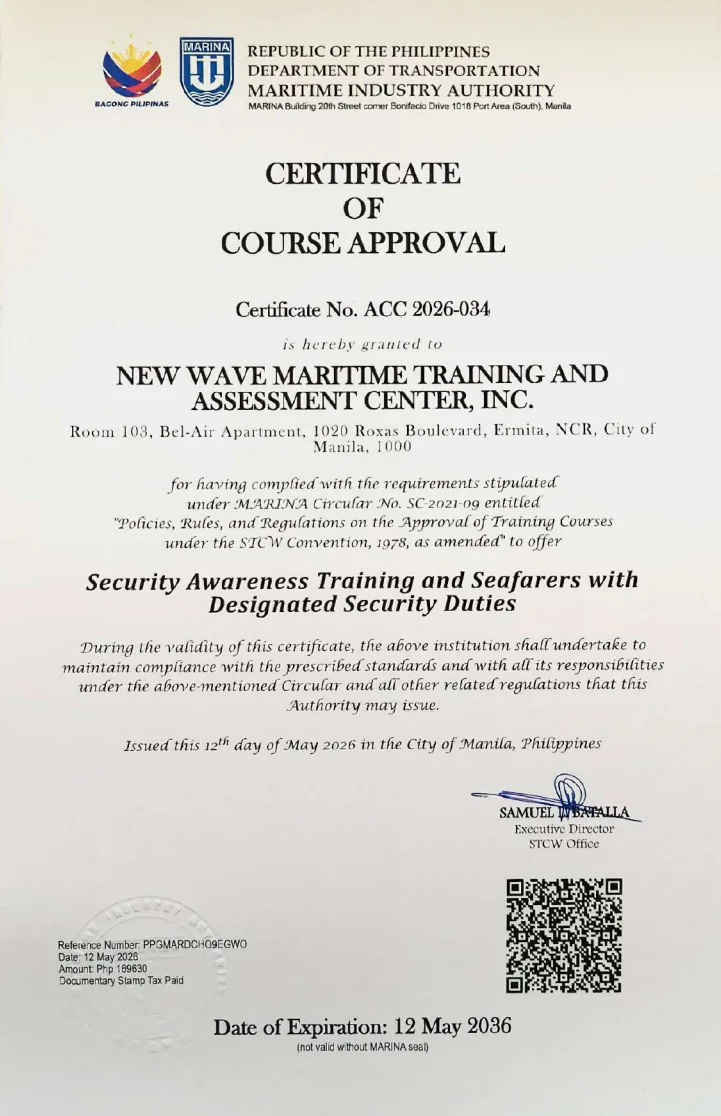
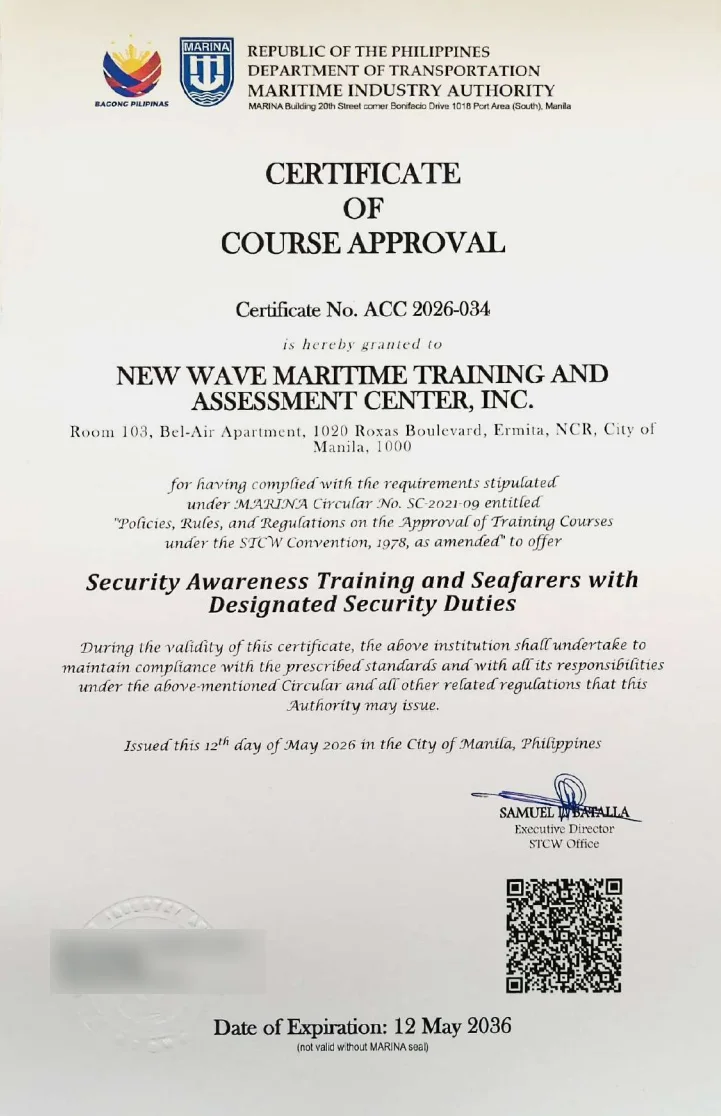
Editorial headline; blur the MARINA fee on published certificates and stop serving originals

Changed region(s): [[0.061, 0.8226, 0.3356, 0.8835]]

diff --git a/components/public-site.tsx b/components/public-site.tsx
@@ -43,9 +43,11 @@ const PAGE_PATH: Record<PublicPage, string> = {
  * issued documents. All five were issued 12 May 2026 under MARINA Circular
  * No. SC-2021-09 and run to 12 May 2036. Order matches the approved layout.
  *
- * The thumbnails under public/certificates/ are unmodified web derivatives;
- * the originals under public/certificates/originals/ are the files the user
- * supplied, byte for byte, and are what every link opens. */
+ * Published copies (public/certificates/full/*.png and the .webp thumbnails)
+ * have the lower-left payment block blurred at the owner's request: the amount
+ * paid to MARINA is commercial information. Certificate numbers, course titles,
+ * dates, the QR code and the seal are untouched. The unmodified originals are
+ * kept in the design skill's assets folder and are not served. */
 const HERO_CERTIFICATES = [
   { no: "ACC 2026-036", title: "Safety Training for Personnel Providing Direct Service to Passengers in Passengers Spaces", file: "acc-2026-036" },
   { no: "ACC 2026-034", title: "Security Awareness Training and Seafarers with Designated Security Duties", file: "acc-2026-034" },
@@ -270,7 +272,7 @@ function Home() {
           {HERO_CERTIFICATES.map((cert) => (
             <li key={cert.no} className="nw-cert">
               <a
-                href={`/certificates/originals/${cert.file}.png`}
+                href={`/certificates/full/${cert.file}.png`}
                 target="_blank"
                 rel="noopener"
                 aria-label={`View approval certificate ${cert.no}: ${cert.title} (opens the full image in a new tab)`}
@@ -469,7 +471,7 @@ function About() {
             <li key={cert.no}>
               <figure>
                 <a
-                  href={`/certificates/originals/${cert.file}.png`}
+                  href={`/certificates/full/${cert.file}.png`}
                   target="_blank"
                   rel="noopener"
                   aria-label={`View approval certificate ${cert.no}: ${cert.title} (opens the full image in a new tab)`}

diff --git a/app/globals.css b/app/globals.css
@@ -5970,19 +5970,23 @@ a[href^="mailto:"],
   color: var(--orange-text);
 }
 
+/* Editorial direction (owner, 7 Oct 2026): the serif carries the headline in
+   sentence case, replacing the mockup's heavy all-caps sans. Orange emphasis
+   stays; at this size brand orange clears the large-text contrast floor. */
 .nw-headline {
-  font-family: var(--font-ui), "Segoe UI", system-ui, sans-serif;
-  font-size: clamp(38px, 5.6vw, 82px);
-  line-height: 0.98;
-  font-weight: 800;
-  letter-spacing: -0.015em;
-  text-transform: uppercase;
+  font-family: var(--font-display), Georgia, "Times New Roman", serif;
+  font-size: clamp(40px, 5.4vw, 80px);
+  line-height: 1.02;
+  font-weight: 400;
+  letter-spacing: -0.018em;
+  text-transform: none;
   color: var(--blue-dark);
   margin: clamp(10px, 1.4vw, 18px) 0 0;
   text-wrap: balance;
 }
 .nw-headline em {
   font-style: normal;
+  font-weight: 600;
   color: var(--orange);
 }
 

diff --git a/public/certificates/README.md b/public/certificates/README.md
@@ -1,30 +1,34 @@
 # MARINA Certificates of Course Approval
 
 Source: the five files supplied in the `new-wave-claude-skill` assets folder.
+Those originals are **not served** by the site; they stay in that folder,
+unmodified, as the record copies.
 
-| Original (unmodified) | Web thumbnail | Certificate | Course |
+| Full-size (served) | Thumbnail | Certificate | Course |
 |------|------|-------------|--------|
-| `originals/acc-2026-034.png` | `acc-2026-034.webp` | ACC 2026-034 | Security Awareness Training and Seafarers with Designated Security Duties |
-| `originals/acc-2026-035.png` | `acc-2026-035.webp` | ACC 2026-035 | Ship Security Officers |
-| `originals/acc-2026-036.png` | `acc-2026-036.webp` | ACC 2026-036 | Safety Training for Personnel Providing Direct Service to Passengers in Passengers Spaces |
-| `originals/acc-2026-037.png` | `acc-2026-037.webp` | ACC 2026-037 | Passenger Ship Crowd Management Training |
-| `originals/acc-2026-038.png` | `acc-2026-038.webp` | ACC 2026-038 | Passenger Ship Crisis Management and Human Behaviour Training |
+| `full/acc-2026-034.png` | `acc-2026-034.webp` | ACC 2026-034 | Security Awareness Training and Seafarers with Designated Security Duties |
+| `full/acc-2026-035.png` | `acc-2026-035.webp` | ACC 2026-035 | Ship Security Officers |
+| `full/acc-2026-036.png` | `acc-2026-036.webp` | ACC 2026-036 | Safety Training for Personnel Providing Direct Service to Passengers in Passengers Spaces |
+| `full/acc-2026-037.png` | `acc-2026-037.webp` | ACC 2026-037 | Passenger Ship Crowd Management Training |
+| `full/acc-2026-038.png` | `acc-2026-038.webp` | ACC 2026-038 | Passenger Ship Crisis Management and Human Behaviour Training |
 
 All five were issued 12 May 2026 and expire 12 May 2036. Each states
 "not valid without MARINA seal"; the site does not claim independent
 verification.
 
-## Contents are unaltered
+## What is blurred, and why
 
-Per the implementation skill, these are published **unmodified**: no blur,
-crop, or edit to any number, date, QR code, seal or stamp. The `.webp` files
-are plain resized derivatives for the hero row; every link on the site opens
-the original PNG.
+On every served copy the lower-left block — reference number, date,
+**the amount paid to MARINA**, and the stamp-tax line — is blurred. The owner
+asked for this on 7 October 2026 because the fee is commercial information
+that does not belong on a public page. The block is blurred rather than
+painted over so the embossed MARINA seal behind it remains visible.
 
-That means the lower-left block on each document — reference number, date,
-**the amount paid to MARINA (Php 169,630)** and the stamp-tax line — is
-readable at full size. That is commercial information, and it is on a public
-page only because the supplied instructions require the documents to be
-unmodified. If that should not be public, the decision is to blur that block
-on the published copies (the originals would stay untouched); say so and it is
-a one-line change.
+Nothing else is altered: certificate number, course title, grant text, issue
+and expiry dates, signature, QR code and seals are as issued.
+
+## Regenerating
+
+The published files are derived from the skill originals by a small `sharp`
+script (blur region ≈ x 7–37 %, y 83–89 % of the page). Re-run it against the
+originals if a certificate is reissued; never edit the served copies by hand.
